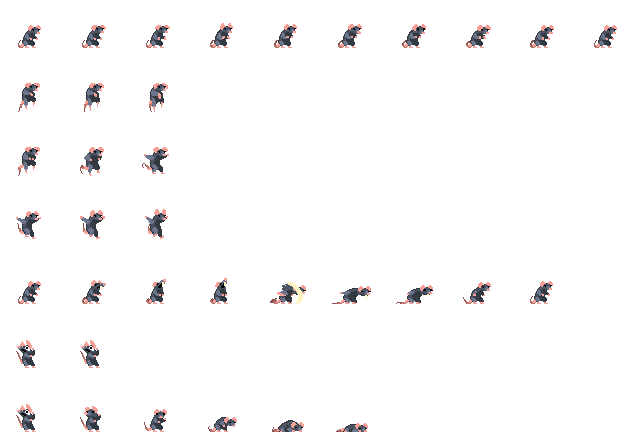
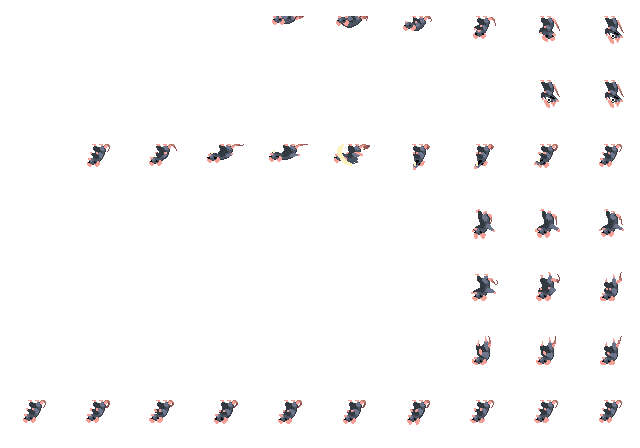
m

diff --git a/charecter.js b/charecter.js
@@ -77,7 +77,10 @@ export const skello = {
             row: 5,
             frames: 6
         },
-       
+       hurt:{
+        row:null,
+        frames:null
+       }
     }
 };
 export const olly = {
@@ -118,6 +121,44 @@ export const olly = {
         shield:{
             row:null,
             frames:null
+        }
+    }
+};
+export const red_bobo = {
+    speed: 6,
+    damage:16,
+    sprite: "red_bobo.png",
+
+    spriteWidth: 100,
+    spriteHeight: 100,
+    drawWidth: 250,
+    drawHeight: 250,
+    health:100,
+    animations: {
+        idle: {
+            row: 0,
+            frames: 6
+        },
+        run: {
+            row: 1,
+            frames: 8
+        },
+       
+        punch: {
+            row: 3,
+            frames: 6
+        },
+        hurt: {
+            row: 4,
+            frames: 4
+        },
+        death: {
+            row: 5,
+            frames: 6
+        },
+        shield:{
+            row:2,
+            frames:7
         }
     }
 };

diff --git a/sprite_select.html b/sprite_select.html
@@ -135,6 +135,18 @@ h3{
      <button>Play</button>
       </a>
       </div>
+      <div class="chose_div">
+      <img src="red_bobo-p.png">
+      <h3>Angry Red Bobo</h3>
+      <h6>Speed: 6</h6>
+      <h6>
+          Damage Rate: 16
+      </h6>
+      <button id="s_chose_4">Choose</button>
+      <a href="enemy-select.html">
+     <button>Play</button>
+      </a>
+      </div>
     </div>
     </div>
 <script type="module" src="sprite_select.js"></script>

diff --git a/La Riña.html b/La Riña.html
@@ -37,6 +37,13 @@
             display: none;
         }
     }
+    button{
+       border-radius: 30px;
+       color:white;
+       background-color: purple;
+       font-family: Tahoma;
+       font-weight: bold;
+    }
 </style>
 </head>
 <body>

diff --git a/main.js b/main.js
@@ -1,5 +1,5 @@
 import{entity}from "./entity.js";
-import {skello,soldier,olly}from "./charecter.js"
+import {skello,soldier,olly,red_bobo}from "./charecter.js"
 import "./movements.js";
 import "./bgSounds.js";
 import "./ai_opponent.js"
@@ -157,6 +157,9 @@ if(selected_sprite === "soldier1"){
 if(selected_sprite === "olly"){
     player.s_c(olly)
 }
+if(selected_sprite === "red_bobo"){
+    player.s_c(red_bobo)
+}
 // enemy selection
 let selected_enemy = localStorage.getItem("enemy")
 if(selected_enemy === "skello"){
@@ -168,6 +171,7 @@ if(selected_enemy === "soldier1"){
 if(selected_enemy === "olly"){
     player2.s_e(olly)
 }
+
 console.log(localStorage.getItem("character"))
 console.log(localStorage.getItem("enemy"))
 //canvad resize issue fixed 

diff --git a/sprite_select.js b/sprite_select.js
@@ -5,6 +5,7 @@ const d1 = document.getElementById("d2")
 const skello = document.getElementById("s_chose_1")
 const violence_enjoyer= document.getElementById("s_chose_2")
 const olly = document.getElementById("s_chose_3")
+const red_bobo = document.getElementById("s_chose_4")
 
 if(ss){
    ss.addEventListener("click", () => {
@@ -21,5 +22,8 @@ if(ss){
   })
   olly.addEventListener("click",()=>{
     localStorage.setItem("character", "olly");
+  })
+  red_bobo.addEventListener("click",()=>{
+    localStorage.setItem("character","red_bobo")
   })
 }

diff --git a/ai_opponent.js b/ai_opponent.js
@@ -77,7 +77,7 @@ export function aiUpdate() {
                     player2.animation_status = "punch";
 
                     player.health -= player2.damage;
-
+                    player.animation_status = "hurt"
                     taken += player2.damage;
                     localStorage.setItem("total_taken", taken);
 
@@ -111,6 +111,7 @@ if (player.health <= 0) {
             if (Math.floor(Math.random() * 10) > 6) {
                         punchSound1();
                         player.health -= player2.damage;
+                        player.animation_status = "hurt"
                         player2.animation_status = "punch"
                     }
                     timer = 0;

diff --git a/movements.js b/movements.js
@@ -37,6 +37,7 @@ window.addEventListener('keydown',(e)=>{
           if(distance <= 30){
             if(Math.floor(Math.random() * 10) > 4){
                 player2.health -= player.damage
+                player2.animation_status = "hurt"
             dealt += player.damage
             localStorage.setItem("total_dealt",dealt)
             